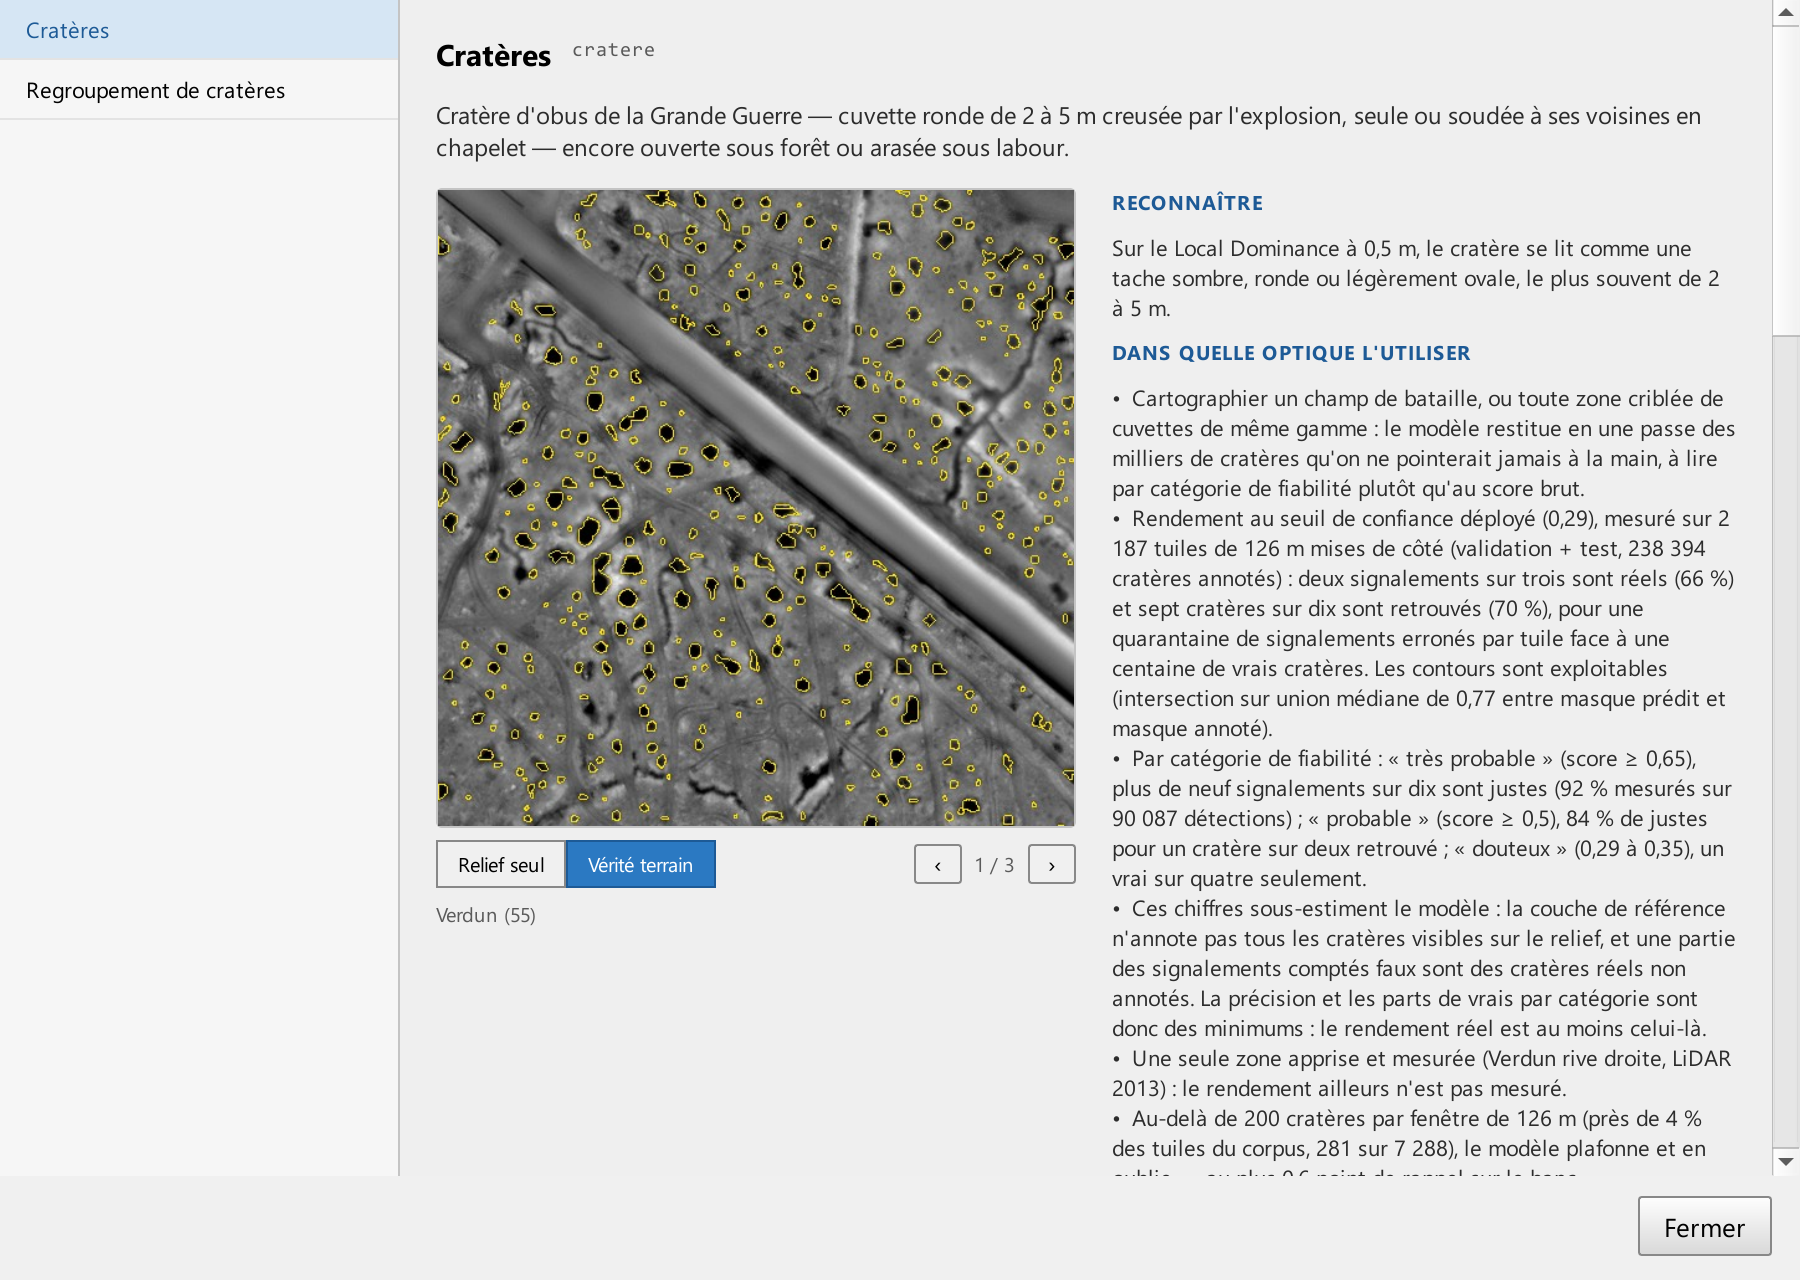
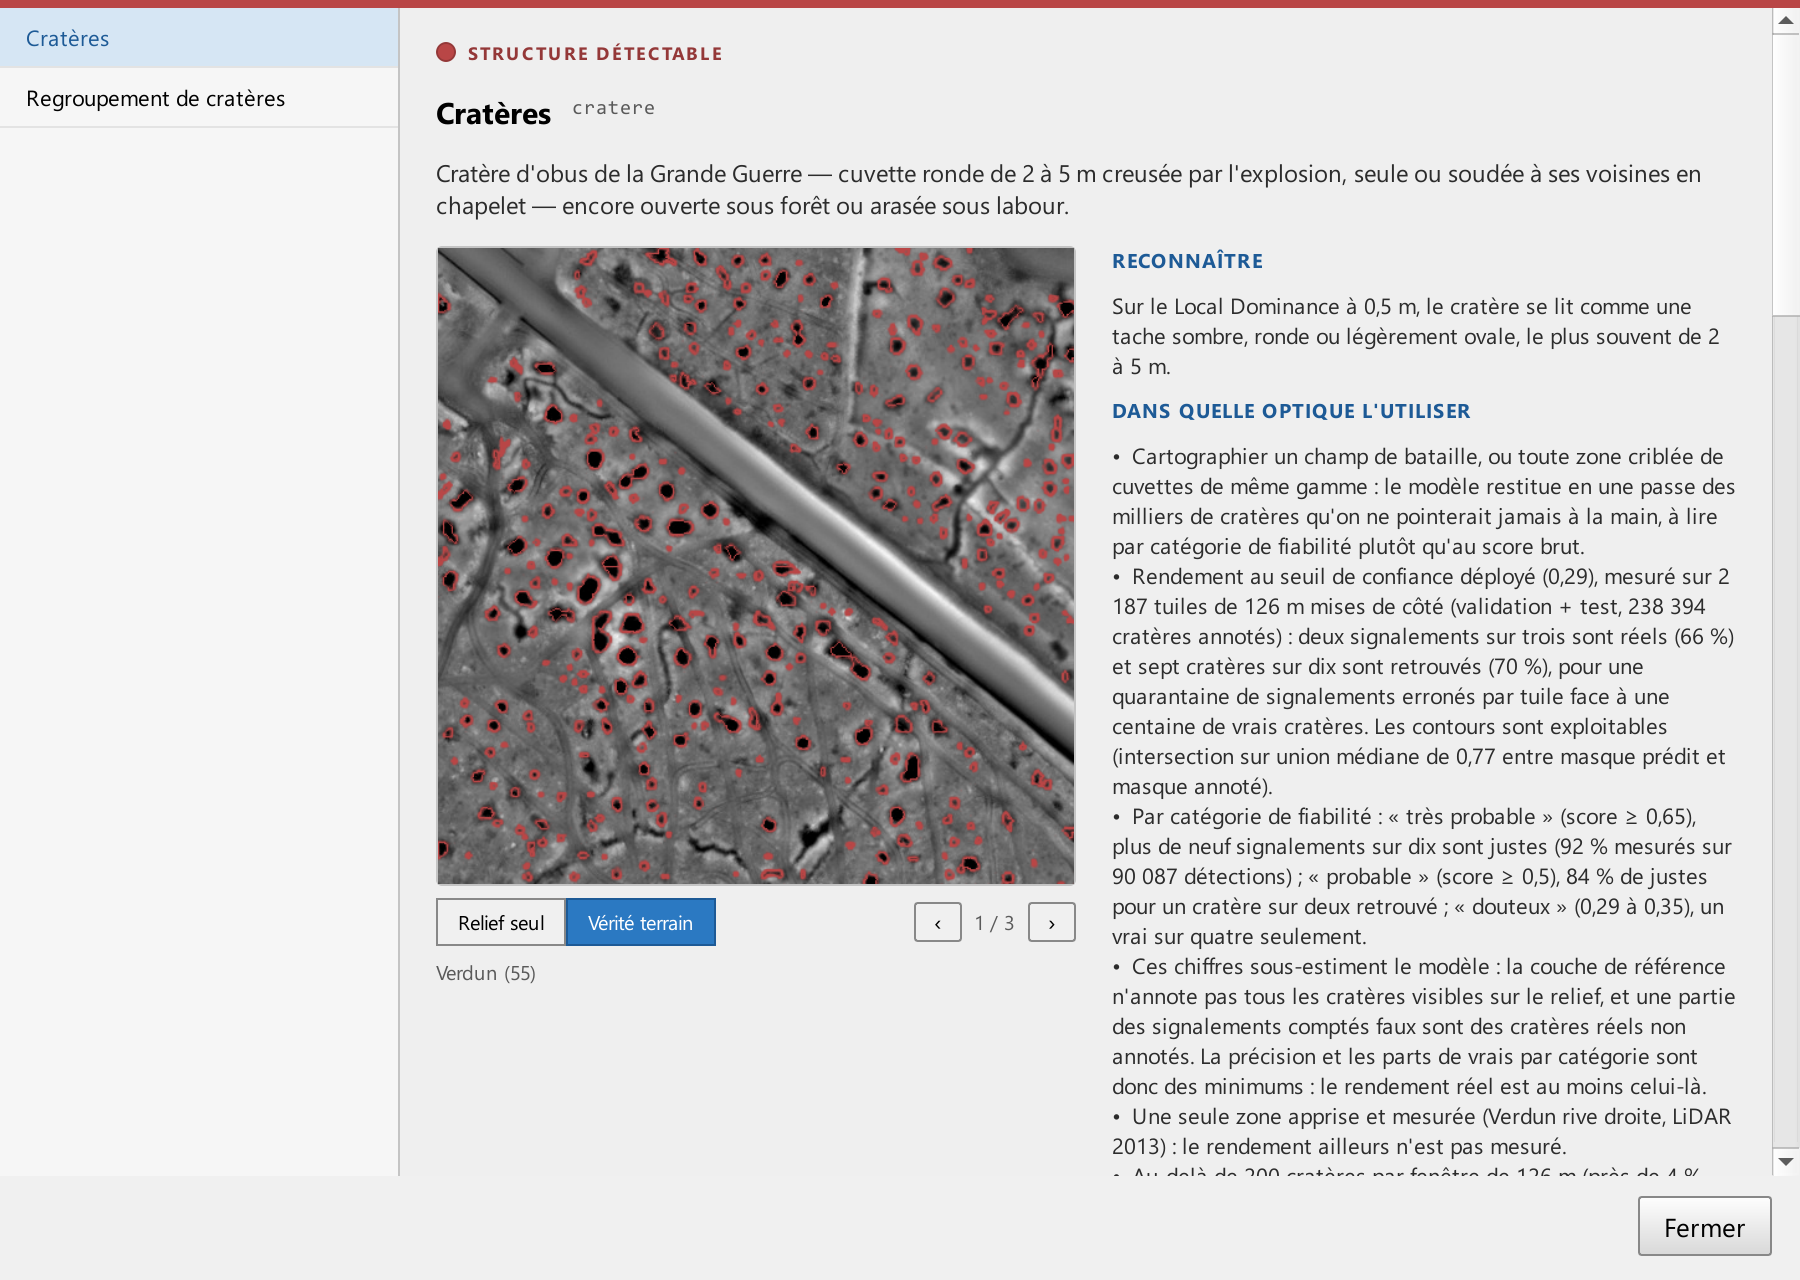
docs(aide): captures de l'étape 4 au vert et de la fiche de classe, hors écran
« captures » écrit maintenant aussi etape4-verifications.png et
etape3-fiche-classe.png. L'étape 4 est au vert hors QGIS : Processing et le
fournisseur de rvt-qgis sont chargés dans l'application hors écran, les
contrôles du préflight sont les vrais et seul le dossier personnel est
remplacé dans leurs détails (l'ancienne capture, faite à la main, montrait
l'étape « Lancer » et un chemin personnel). Les captures masquent l'onglet
Visualisation, sans chapitre et masqué sur dev et main : mêmes images sur
toutes les branches. « profil » contrôle l'absence de barre horizontale dans
la fiche. Skill manuel-integre et CLAUDE.md suivent.

Changed region(s): [[0.0, 0.0, 1.0, 0.9062], [0.8089, 0.0625, 0.8711, 0.0938], [0.6222, 0.0625, 0.6533, 0.0938]]

diff --git a/dev/rendu_hors_ecran.py b/dev/rendu_hors_ecran.py
@@ -3,16 +3,18 @@
 
 À lancer avec le **Python de QGIS** (le plugin importe ``qgis.PyQt``) :
 
-    C:/OSGeo4W/bin/python-qgis.bat dev/rendu_hors_ecran.py captures            # aide/img/etape{1,2,3}-*.png (2×)
+    C:/OSGeo4W/bin/python-qgis.bat dev/rendu_hors_ecran.py captures            # aide/img/etape{1,2,3,4}-*.png (2×)
     C:/OSGeo4W/bin/python-qgis.bat dev/rendu_hors_ecran.py manuel [--chapitre etape-2-produits --ancre tuilage-et-marge] [--recherche mot] [--tous]
     C:/OSGeo4W/bin/python-qgis.bat dev/rendu_hors_ecran.py journal                             # vue d'exécution : renvoi ⚠ cliquable
     C:/OSGeo4W/bin/python-qgis.bat dev/rendu_hors_ecran.py profil [--modele crateres_seg_ld_v1]
 
 Monte un ``QgsApplication`` en ``QT_QPA_PLATFORM=offscreen`` avec le thème QSS du plugin, puis :
 
-- ``captures`` : l'assistant aux étapes 1 à 3, avec des chemins neutres dans les champs et quelques
-  produits cochés, en **double résolution** (``QT_SCALE_FACTOR=2``, posé avant la création de
-  l'application) → ``aide/img/``. L'étape 4 n'est pas capturée : le préflight échoue hors QGIS.
+- ``captures`` : l'assistant aux étapes 1 à 4, la fiche d'une classe et la vue d'exécution, avec des
+  chemins neutres dans les champs et quelques produits cochés, en **double résolution**
+  (``QT_SCALE_FACTOR=2``, posé avant la création de l'application) → ``aide/img/``. L'étape 4 est
+  au vert : Processing et le fournisseur de rvt-qgis sont chargés hors écran, les contrôles du
+  préflight sont les vrais, seul le dossier personnel est remplacé dans leurs détails.
 - ``manuel`` : la fenêtre du manuel sur un chapitre (et une ancre), PNG dans ``--sortie`` + contrôle
   que la barre horizontale est à 0 px (une image trop large la ferait apparaître) ; ``--recherche``
   vérifie la recherche dans tout le manuel ; ``--tous`` rend chaque chapitre, puis l'historique et le
@@ -118,10 +120,95 @@ def _journal_en_cours(app, img: Path, log) -> None:
     log("run-journal :", v.width(), "x", v.height(), "| fil :", v._fil_gauche.text(), "|", v._fil_droite.text())
 
 
+def _processing_hors_ecran(log) -> bool:
+    """Processing et le fournisseur rvt-qgis dans l'application hors écran, comme dans QGIS :
+    sans eux le préflight de l'étape 4 est rouge (« QGIS processing », « Algorithmes RVT »)."""
+    import importlib.util
+
+    try:
+        prefixe = Path(os.environ.get("QGIS_PREFIX_PATH", r"C:\OSGeo4W\apps\qgis"))
+        sys.path.insert(0, str(prefixe / "python" / "plugins"))
+        from processing.core.Processing import Processing
+
+        Processing.initialize()
+        rvt = RACINE.parent / "rvt-qgis"            # extension sœur du profil QGIS
+        sys.path.insert(0, str(rvt))                # ses algorithmes importent ``rvt.*``
+        spec = importlib.util.spec_from_file_location(
+            "rvt_qgis", rvt / "__init__.py", submodule_search_locations=[str(rvt)])
+        sys.modules["rvt_qgis"] = importlib.util.module_from_spec(spec)
+        from qgis.core import QgsApplication
+        from rvt_qgis.processing_provider.provider import Provider
+
+        QgsApplication.processingRegistry().addProvider(Provider())
+        return True
+    except Exception as e:  # noqa: BLE001
+        log("Processing / rvt-qgis non chargés hors écran :", repr(e))
+        return False
+
+
+def _fiche_classe(app, img: Path, log, modele: str = "crateres_seg_ld_v1") -> bool:
+    """aide/img/etape3-fiche-classe.png : la fiche d'une classe en haut, vérité terrain affichée."""
+    from archeo.src.app.services.class_fiche import build_all_fiches
+    from archeo.src.app.services.model_orchestrator import discover_installed_models, load_model_card
+    from archeo.src.ui.dialogs.class_info_dialog import ClassInfoDialog
+
+    modeles = {m.name: m for m in discover_installed_models(RACINE / "data" / "models")}
+    if modele not in modeles:
+        log("fiche de classe : modèle absent :", modele)
+        return False
+    m = modeles[modele]
+    card = load_model_card(m.model_dir)
+    card = card[0] if isinstance(card, tuple) else card
+    fiches = build_all_fiches(card)
+    dlg = ClassInfoDialog(fiches, model_dirs={f.modele_id: m.model_dir for f in fiches}, titre=modele)
+    dlg.show()
+    dlg.resize(900, 640)
+    app.processEvents()
+    dlg.grab().save(str(img / "etape3-fiche-classe.png"))
+    log("fiche de classe :", modele, dlg.width(), "x", dlg.height())
+    return True
+
+
+def _etape4(app, w, img: Path, log) -> bool:
+    """aide/img/etape4-verifications.png : bandeau, état du système au vert, récapitulatif."""
+    import time
+
+    import archeo.src.pipeline.preflight as pf
+    from dataclasses import replace
+
+    if not _processing_hors_ecran(log):
+        return False
+    brut = pf.collect_preflight_results
+    maison = str(Path.home())
+
+    def neutre(**kw):  # le chemin du moteur de détection passe par le profil de l'utilisateur
+        return [replace(r, details=r.details.replace(maison, r"C:\Users\utilisateur")) for r in brut(**kw)]
+
+    pf.collect_preflight_results = neutre
+    try:
+        w._goto_step(4)
+        limite = time.monotonic() + 120
+        while w._launch_page._preflight_status == "pending" and time.monotonic() < limite:
+            app.processEvents()
+            time.sleep(0.05)
+    finally:
+        pf.collect_preflight_results = brut
+    app.processEvents()
+    w.grab().save(str(img / "etape4-verifications.png"))
+    statut = w._launch_page._preflight_status
+    log("étape 4 : préflight =", statut, "| bouton :", w._next_btn.text(), "| actif :", w._next_btn.isEnabled())
+    return statut == "ok" and w._next_btn.isEnabled()
+
+
 def captures(app, sortie: Path, log) -> int:
-    """Étapes 1 à 3 de l'assistant et la vue d'exécution en cours → aide/img/, chemins neutres,
-    SVF + LD cochés, détection activée."""
+    """Étapes 1 à 4 de l'assistant, la fiche d'une classe et la vue d'exécution en cours →
+    aide/img/, chemins neutres, SVF + LD cochés, détection activée."""
+    import archeo.src.ui.wizard_dialog as wizard
     from archeo.src.ui.wizard_dialog import WizardDialog
+
+    # ponytail: l'onglet Visualisation n'a pas de chapitre et reste masqué sur dev et main ; les
+    # captures montrent l'assistant livré, quelle que soit la branche. Retirer le jour où il est livré.
+    wizard.VISUALISATION_TAB_ENABLED = False
 
     img = RACINE / "aide" / "img"
     img.mkdir(exist_ok=True)
@@ -161,8 +248,10 @@ def captures(app, sortie: Path, log) -> int:
     n = len(getattr(w._detection_page, "_cards", {}) or [])
     log("entités affichées à l'étape 3 :", n, "(0 = aucun modèle sous data/models)")
     w.grab().save(str(img / "etape3-detection.png"))
+    fiche_ok = _fiche_classe(app, img, log)
+    etape4_ok = _etape4(app, w, img, log)
     log("captures écrites dans", img, "— taille de l'assistant :", w.width(), "x", w.height())
-    return 0 if n else 1
+    return 0 if n and fiche_ok and etape4_ok else 1
 
 
 def manuel(app, sortie: Path, log, chapitre: str, ancre: str, recherche: str = "", tous: bool = False) -> int:
@@ -248,7 +337,8 @@ def profil(app, sortie: Path, log, modele: str) -> int:
     dlg.show()
     app.processEvents()
     figures = dlg.findChildren(ProfilScoresWidget)
-    log(modele, "fiche de classe : figures =", len(figures))
+    debord = dlg.findChild(QScrollArea).horizontalScrollBar().maximum()
+    log(modele, "fiche de classe : figures =", len(figures), "| barre horizontale", debord, "px (attendu 0)")
     if figures:
         zone = dlg.findChild(QScrollArea)
         if zone is not None:
@@ -291,7 +381,7 @@ def profil(app, sortie: Path, log, modele: str) -> int:
         app.processEvents()
         log("  bilan :", minis[0].phrase_bilan())
     w.grab().save(str(sortie / f"carte_{modele}.png"))
-    return 0 if figures else 1
+    return 0 if figures and not debord else 1
 
 
 def journal(app, sortie: Path, log) -> int:

diff --git a/CLAUDE.md b/CLAUDE.md
@@ -177,7 +177,7 @@ Le dossier `plugins/archeologia-pipeline` du profil QGIS est **ce que QGIS charg
 - **Le packaging se fait depuis le dossier principal** : la grille IGN, les modèles et le binaire CV sont gitignorés et n'existent que là. La branche livrée doit donc y être extraite au moment du `package_plugin.py`.
 - `data/models/**` étant gitignoré, un worktree n'a pas de modèle : pour un rendu hors écran de l'étape 3 ou des fiches, poser des **jonctions** `data/models/<modèle>` vers le dossier principal (PowerShell `New-Item -ItemType Junction`), jamais une copie.
 
-**Vérifier une fenêtre sans QGIS de bureau.** `dev/rendu_hors_ecran.py` (à lancer avec le Python de QGIS : `C:/OSGeo4W/bin/python-qgis.bat dev/rendu_hors_ecran.py <commande>`) monte un `QgsApplication` en `QT_QPA_PLATFORM=offscreen`, applique le thème QSS et rend l'assistant, le manuel ou les fiches en PNG. Ce qu'il faut savoir : l'écran virtuel fait 800×600, donc `resize()` après `show()` ; `QT_SCALE_FACTOR=2` **avant** la création de l'application donne des captures en double résolution ; le `.bat` avale stdout, écrire les contrôles dans un fichier ; la faute de segmentation à la sortie (`exitQgis`) est bénigne ; le préflight de l'étape 4 échoue hors QGIS (Processing absent), ne pas capturer cet écran ainsi. C'est ce qui a permis de vérifier le manuel (défilement, liens, largeur des images à 100 % et 150 %) et le profil des scores sans mobiliser l'utilisateur.
+**Vérifier une fenêtre sans QGIS de bureau.** `dev/rendu_hors_ecran.py` (à lancer avec le Python de QGIS : `C:/OSGeo4W/bin/python-qgis.bat dev/rendu_hors_ecran.py <commande>`) monte un `QgsApplication` en `QT_QPA_PLATFORM=offscreen`, applique le thème QSS et rend l'assistant, le manuel ou les fiches en PNG. Ce qu'il faut savoir : l'écran virtuel fait 800×600, donc `resize()` après `show()` ; `QT_SCALE_FACTOR=2` **avant** la création de l'application donne des captures en double résolution ; le `.bat` avale stdout, écrire les contrôles dans un fichier ; la faute de segmentation à la sortie (`exitQgis`) est bénigne ; le préflight de l'étape 4 n'est vert hors QGIS que si Processing et le fournisseur de rvt-qgis sont chargés : `captures` le fait (`_processing_hors_ecran`) et remplace le dossier personnel dans les détails ; `captures` masque aussi l'onglet Visualisation, sans chapitre et masqué sur dev et main. C'est ce qui a permis de vérifier le manuel (défilement, liens, largeur des images à 100 % et 150 %) et le profil des scores sans mobiliser l'utilisateur.
 
 ## Installation d'un modèle : skills partagés dans le plugin Claude Code `archeologia` (règle 2026-09-15, marketplace depuis le 2026-10-08)
 

diff --git a/.claude/skills/manuel-integre/SKILL.md b/.claude/skills/manuel-integre/SKILL.md
@@ -57,10 +57,11 @@ retard, qu'il a remplacée le 2026-10-07.
 - **Jamais à l'intérieur d'un élément de liste** : Qt la rend en ligne avec le texte (ligne géante, trous).
   Placer l'image après la liste.
 - Captures de l'assistant : hors écran, en double résolution, chemins neutres dans les champs :
-  `C:/OSGeo4W/bin/python-qgis.bat dev/rendu_hors_ecran.py captures` (écrit `aide/img/etape*.png` et
+  `C:/OSGeo4W/bin/python-qgis.bat dev/rendu_hors_ecran.py captures` (écrit `aide/img/etape*.png`, dont
+  l'étape 4 au vert et la fiche de classe, et
   `aide/img/run-journal.png`, la vue d'exécution en cours de détection). Une nouvelle capture
   s'ajoute à cette commande, jamais à un script de brouillon.
-  Captures qui exigent QGIS de bureau (canevas, résultats, étape 4 au vert) : demandées à l'utilisateur,
+  Captures qui exigent QGIS de bureau (canevas, résultats, dialogues de QGIS) : demandées à l'utilisateur,
   déposées dans son dossier de captures Windows avec le nom attendu, puis converties et placées.
 - Jamais l'adresse du dépôt, un identifiant ou un chemin personnel dans une image livrée : masquer.
 - La fenêtre ramène toute image à la largeur de lecture et la lisse à la densité d'écran : pas de

diff --git a/aide/05-etape-3-detection.md b/aide/05-etape-3-detection.md
@@ -24,7 +24,7 @@ La liste dépend des modèles installés : une entité n'apparaît que si un mod
 - **Modèle** : « seul disponible », ou un menu **Changer ▾** quand plusieurs modèles couvrent l'entité. Chaque entrée du menu indique le nombre de **fenêtres d'analyse** que le modèle découpe dans une dalle : c'est un fait sur le volume de calcul, pas une estimation de durée. Le bouton **ⓘ** ouvre la fiche du modèle : architecture, seuils, métriques d'évaluation et courbes.
 - **Regrouper en zones** : pour certaines entités, une case regroupe les détections proches en zones. Le **Regroupement de cratères** est une entité à part entière, avec le badge **regroupement automatique** : la cocher produit les zones et les cratères qui les composent.
 
-[![La fiche d'une classe : vignette du corpus avec bascule relief seul / vérité terrain, fiabilité mesurée, ce que le modèle a appris](img/etape3-fiche-classe.png)](img/etape3-fiche-classe.png)
+[![La fiche d'une classe : l'étiquette « Structure détectable », la vignette du corpus avec la bascule relief seul / vérité terrain, puis ce qu'il faut savoir avant de cocher](img/etape3-fiche-classe.png)](img/etape3-fiche-classe.png)
 
 ## Comparer deux modèles
 

diff --git a/aide/06-etape-4-verifications.md b/aide/06-etape-4-verifications.md
@@ -19,7 +19,7 @@ Le panneau vérifie en tâche de fond ce dont le traitement a besoin :
 
 Chaque contrôle affiche son état et son détail. Un élément manquant bloque le lancement et dit quoi installer : voir [Dépannage](depannage.md#les-verifications-prealables-ont-echoue).
 
-[![Étape 4 : configuration valide, état du système au vert, récapitulatif du run](img/etape4-lancer.png)](img/etape4-lancer.png)
+[![Étape 4 : configuration valide, état du système au vert, récapitulatif du run](img/etape4-verifications.png)](img/etape4-verifications.png)
 
 ## Paramètres avancés
 
